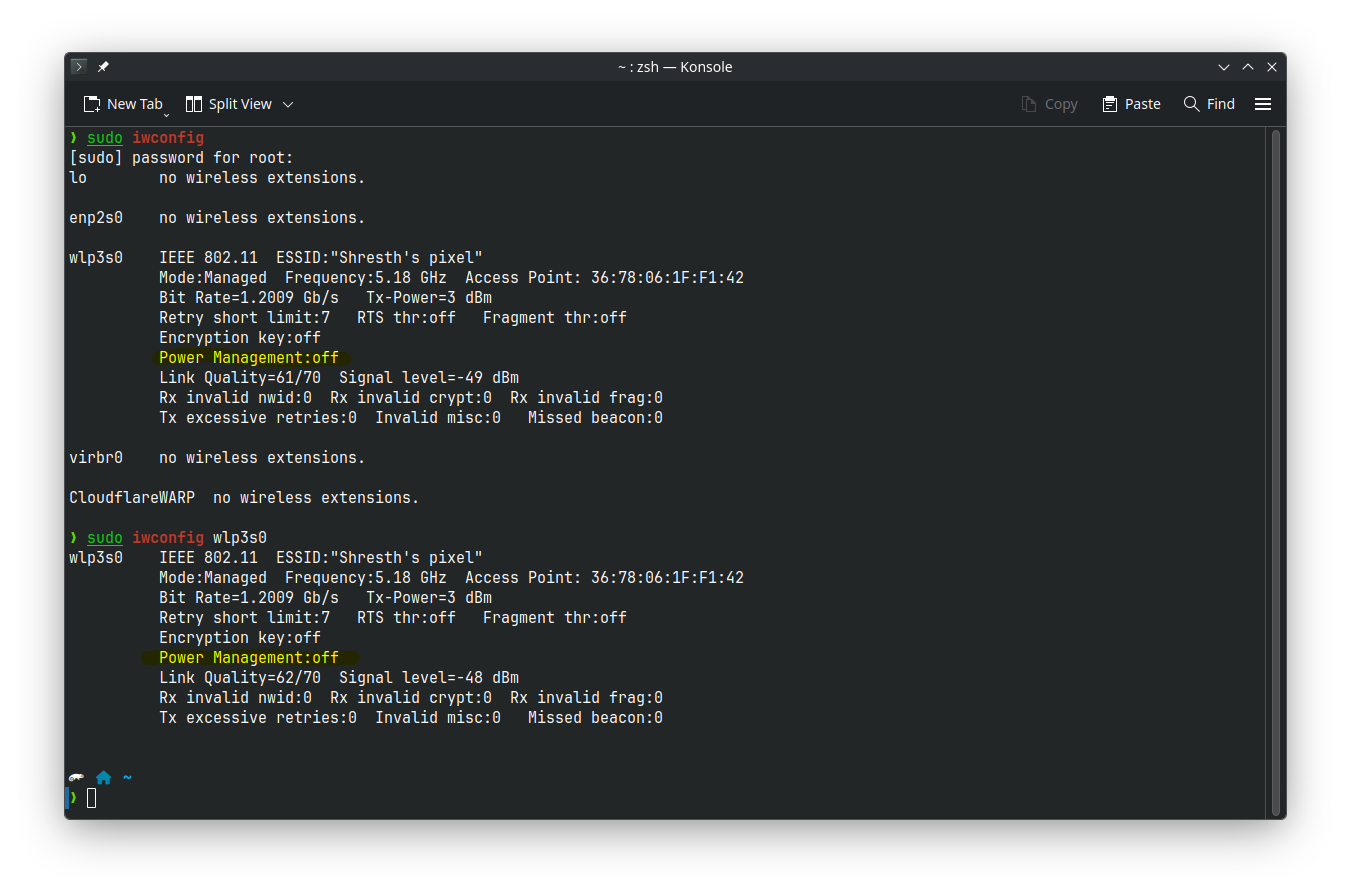
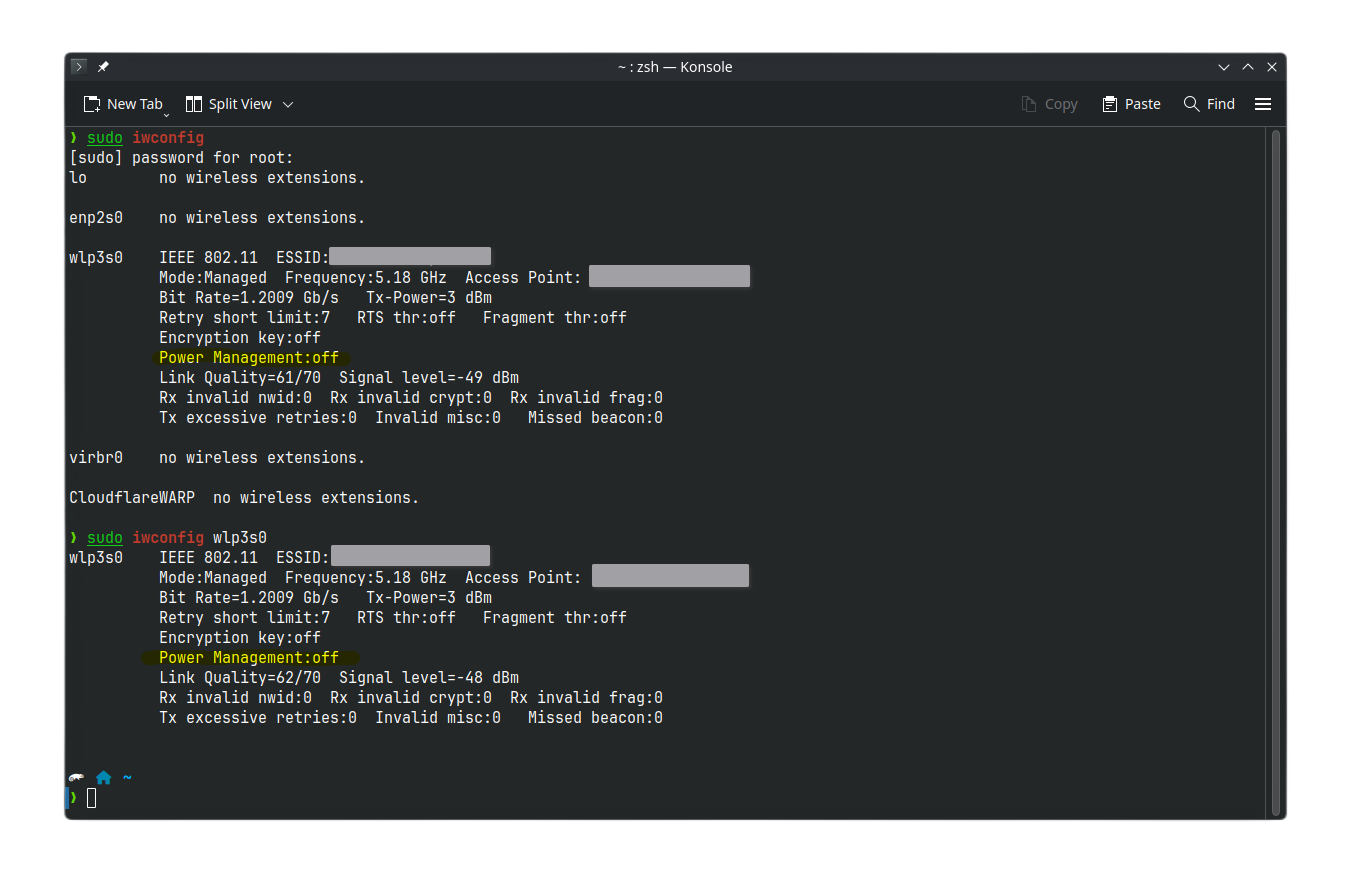
Updated README.md to add support for trivy integration

diff --git a/public/posts/linux-network-gaming-fix/index.html b/public/posts/linux-network-gaming-fix/index.html
@@ -924,8 +924,8 @@ To apply the changes immediately without rebooting your PC, restart the NetworkM
           alt="terminal"
           width="1351"
           height="896"
-          src="/posts/linux-network-gaming-fix/4_hu_945538f556cf6d34.png"
-          srcset="/posts/linux-network-gaming-fix/4_hu_945538f556cf6d34.png 800w,/posts/linux-network-gaming-fix/4_hu_1ff97bcba2c4749f.png 1280w"
+          src="/posts/linux-network-gaming-fix/4_hu_1d6beee115a77a0.png"
+          srcset="/posts/linux-network-gaming-fix/4_hu_1d6beee115a77a0.png 800w,/posts/linux-network-gaming-fix/4_hu_668d6a0a3cd24629.png 1280w"
           sizes="(min-width: 768px) 50vw, 65vw"
           data-zoom-src="/posts/linux-network-gaming-fix/4.png"
         />

diff --git a/README.md b/README.md
@@ -1,12 +1,12 @@
 # The Libre Life | Dual-Target GitOps Deployment Pipeline 🚀
-
 [![CI/CD Pipeline](https://github.com/shresth-kumar-lal/thelibrelife-site/actions/workflows/deploy.yml/badge.svg)](https://github.com/shresth-kumar-lal/thelibrelife-site/actions)
 [![Hugo Version](https://img.shields.io/badge/Hugo-v0.160.1_Extended-blue.svg)](https://gohugo.io/)
 [![Docker Base](https://img.shields.io/badge/Docker-Nginx_Alpine-blue.svg)](https://hub.docker.com/_/nginx)
+[![DevSecOps](https://img.shields.io/badge/Trivy-Vulnerability_Scanner-red.svg)](https://aquasecurity.github.io/trivy/)
 [![AWS ECR](https://img.shields.io/badge/AWS-Elastic_Container_Registry-FF9900.svg)](https://aws.amazon.com/ecr/)
 [![Live Site](https://img.shields.io/badge/Live-thelibrelife.org-success.svg)](https://thelibrelife.org)
 
-This repository houses the source code and fully automated continuous delivery pipeline for **[The Libre Life](https://thelibrelife.org)**. It serves as a proof-of-concept for enterprise-grade GitOps, demonstrating how to engineer a single GitHub Actions workflow that simultaneously deploys a highly-optimized static application to a global CDN, while securely packaging and pushing a production-ready Docker container to a private AWS cloud registry.
+This repository houses the source code and fully automated continuous delivery pipeline for **[The Libre Life](https://thelibrelife.org)**. It serves as a proof-of-concept for enterprise-grade GitOps and DevSecOps, demonstrating a single GitHub Actions workflow that simultaneously deploys a highly-optimized static application to a global CDN, while securely packaging, scanning, and pushing a production-ready Docker container to a private AWS cloud registry.
 
 ## Architecture & Pipeline Flow
 
@@ -19,7 +19,7 @@ flowchart TD
         Repo --> Trigger{Push to main}
         
         Trigger --> Job1[Job 1: Build & Deploy to Pages]
-        Trigger --> Job2[Job 2: Build & Push Docker Image]
+        Trigger --> Job2[Job 2: Build, Scan & Push Docker Image]
 
         subgraph PagesPipeline ["Target 1: Static Hosting"]
             Job1 --> InstallHugo[Install Hugo v0.160.1 & Dart Sass]
@@ -27,10 +27,12 @@ flowchart TD
             Compile --> Upload[Upload Pages Artifact]
         end
 
-        subgraph DockerPipeline ["Target 2: Enterprise Artifact"]
+        subgraph DockerPipeline ["Target 2: Enterprise Artifact (DevSecOps)"]
             Job2 --> Auth[Authenticate AWS IAM]
             Auth --> BuildImg[Build Multi-stage Nginx Container]
-            BuildImg --> TagImg[Tag Image with Git SHA]
+            BuildImg --> Trivy{Trivy Vulnerability Scan}
+            Trivy -->|Fail| Halt[Block Push: CRITICAL/HIGH CVEs found]
+            Trivy -->|Pass| TagImg[Tag Image with Git SHA]
         end
     end
 
@@ -54,23 +56,28 @@ flowchart TD
     style CI_CD fill:#f0f6ff,stroke:#0366d6,stroke-width:2px,color:#000
     style Production fill:#f9f9f9,stroke:#333,stroke-width:1px,color:#000
     style AWSRegistry fill:#f9f9f9,stroke:#333,stroke-width:1px,color:#000
+    style Trivy fill:#ffe6e6,stroke:#cc0000,stroke-width:2px,color:#000
+    style Halt fill:#ffcccc,stroke:#cc0000,stroke-width:2px,color:#000
+
 ```
 
 The deployment lifecycle is 100% automated using a parallel-job GitHub Actions pipeline. No manual server intervention is required.
 
 1. **Version Control:** Developer pushes markdown content or configuration changes to the `main` branch.
 2. **Parallel CI/CD Jobs:** GitHub Actions spins up ephemeral `ubuntu-latest` runners to execute two targets concurrently:
-   - **Target 1 (Production Hosting):** Injects the Dart Sass compiler, builds the static assets, and deploys directly to GitHub Pages CDN natively bound to the `thelibrelife.org` apex domain.
-   - **Target 2 (Enterprise Artifact):** Authenticates with AWS IAM via secure secrets, executes a multi-stage Docker build, and pushes an immutable, Nginx-backed container to a private Amazon Elastic Container Registry (ECR) in the `eu-north-1` (Stockholm) region.
-3. **DNS Routing:** Porkbun DNS dynamically routes `A` and `CNAME` requests to GitHub's global Anycast IP network, enforcing strict SSL/HTTPS.
+* **Target 1 (Production Hosting):** Injects the Dart Sass compiler, builds the static assets, and deploys directly to GitHub Pages CDN natively bound to the `thelibrelife.org` apex domain.
+* **Target 2 (Enterprise Artifact & SecOps):** Authenticates with AWS IAM via secure secrets, executes a multi-stage Docker build, and runs an automated **Trivy vulnerability scan**. If the image passes the security gate (no HIGH/CRITICAL CVEs), the immutable, Nginx-backed container is pushed to a private Amazon Elastic Container Registry (ECR) in the `eu-north-1` (Stockholm) region.
 
+
+3. **DNS Routing:** Porkbun DNS dynamically routes `A` and `CNAME` requests to GitHub's global Anycast IP network, enforcing strict SSL/HTTPS.
 
 ## Technology Stack
 
 * **Static Site Generator:** Hugo Extended (v0.160.1)
 * **Theme & UI:** Blowfish (Installed as a Git Submodule)
 * **Containerization:** Docker (Multi-stage builds, minimal Nginx Alpine image)
-* **CI/CD:** GitHub Actions (Dual-Target Matrix)
+* **CI/CD & GitOps:** GitHub Actions (Dual-Target Matrix)
+* **DevSecOps:** Aqua Security Trivy (Automated container vulnerability scanning)
 * **Cloud Infrastructure:** AWS IAM, Amazon ECR
 * **Networking:** Porkbun DNS, GitHub Pages Global CDN
 
@@ -78,6 +85,7 @@ The deployment lifecycle is 100% automated using a parallel-job GitHub Actions p
 
 Building an automated pipeline exposes the fragile nature of open-source dependency matrices. During the architectural design of this CI/CD pipeline, several complex challenges were identified and resolved:
 
+* **Shifting Security Left (DevSecOps):** Injecting security at the end of a deployment cycle is an anti-pattern. **Solution:** Integrated Aqua Security's Trivy scanner directly into the GitHub Actions runner. The pipeline is explicitly configured to fail and block pushes to AWS ECR if any `CRITICAL` or `HIGH` vulnerabilities are detected in the OS or library layers.
 * **The `:latest` Tag Trap & Upstream Registry Changes:** Initial Docker builds failed because the `:latest` tag pulled bleeding-edge Hugo binaries that fractured the theme's native `Locale` compiler. When attempting to pin the version, the upstream registry maintainers altered their tagging taxonomy. **Solution:** Conducted registry reconnaissance and refactored the `Dockerfile` to explicitly pin `hugomods/hugo:debian-reg-dart-sass-node-0.160.1`, guaranteeing deterministic, immutable builds.
 * **Pipeline Synchronization:** Discovered a drift where the Docker pipeline and GitHub Pages pipeline were compiling with mismatched Hugo binaries, causing simultaneous failures and successes. **Solution:** Bound both workflow jobs to a unified `HUGO_VERSION` environment variable, ensuring absolute parity between the containerized artifact and the live CDN deployment.
 * **Deprecation Resolution in CI Logs:** The strict compiler flagged legacy top-level TOML parameters. **Solution:** Refactored the data structure to securely nest `locale` and `label` configurations inside the `[params]` block.
@@ -85,7 +93,7 @@ Building an automated pipeline exposes the fragile nature of open-source depende
 
 ## Run the Container Locally
 
-Want to see the AWS-bound containerized application running on your own machine? You don't need AWS access to test the build. 
+Want to see the AWS-bound containerized application running on your own machine? You don't need AWS access to test the build.
 
 Ensure you have [Docker](https://www.docker.com/) and Git installed, then run these commands:
 
@@ -101,3 +109,5 @@ docker build -t thelibrelife-local .
 
 # 4. Run the secure Nginx container on port 8080
 docker run -p 8080:80 thelibrelife-local
+
+```

diff --git a/content/posts/Double password fix on encrypted install/index.md b/content/posts/Double password fix on encrypted install/index.md
@@ -1,0 +1,151 @@
+---
+title: "Beyond the Double Password: Auto-Unlocking LUKS with TPM2"
+description: "Full disk encryption is essential, but typing your password twice is just bad design. Here is how to bind LUKS to your TPM2 chip for a seamless, secure boot."
+date: 2026-04-29
+type: "post"
+tags: ["Linux", "Security", "openSUSE", "Encryption", "TPM"]
+---
+
+We have all been there. You just finished a pristine, fresh installation of your favorite Linux distribution. You did the responsible thing: you checked the box for Full Disk Encryption (FDE). Your data is locked down, your laptop is secure, and you feel like an absolute cypherpunk. 
+
+Then, you reboot. 
+
+First, GRUB asks for your 20-character passphrase to unlock the bootloader. You type it in. You wait a few seconds as the kernel loads. Then, the system halts and asks for the *exact same 20-character passphrase* to mount your root partition before starting your desktop environment. 
+
+It is maddening. It is redundant. And the good news? You do not have to live with it. 
+
+By leveraging the hardware already inside your laptop—specifically the TPM2 (Trusted Platform Module) chip—we can securely automate that second password prompt. As long as your hardware hasn't been tampered with, your laptop will boot smoothly straight to your login screen.
+
+Here is the complete, jargon-free guide to taking back your boot sequence.
+
+---
+
+## The Magic Trick: `systemd-cryptenroll`
+
+Before we start typing commands, let's briefly demystify what we are actually doing. 
+
+Your encrypted drive (which uses a standard called LUKS) has multiple "slots" for keys. Right now, slot 0 holds the password you memorized. We are going to use a brilliant tool called `systemd-cryptenroll` to generate a new, highly complex hardware key, store it securely inside your laptop's TPM chip, and put that key into slot 1. 
+
+We will specifically bind this key to **PCR 7**. In plain English, PCR 7 is the part of your motherboard that constantly watches your Secure Boot state. If an attacker steals your laptop, boots from a malicious live USB, or alters your BIOS, the TPM detects the change, panics, and refuses to hand over the key. Your drive stays locked. 
+
+If nothing has been tampered with? The TPM quietly hands the key to the kernel, and you boot in seconds. It is the perfect balance of convenience and paranoia.
+
+---
+
+## Phase 1: The Prerequisites
+
+Before we touch the terminal, let's make sure your hardware is ready for this. Open up your terminal.
+
+**1. Verify you have a TPM 2.0 chip:**
+```bash
+systemd-cryptenroll --tpm2-device=list
+```
+*If your system returns a device path (usually `/dev/tpmrm0`), you are golden. Almost all modern ThinkPads and laptops have this.*
+
+**2. Verify you are using LUKS2:**
+```bash
+sudo blkid | grep crypto_LUKS
+```
+*This guide relies on modern LUKS2 architecture. If you are on an older LUKS1 setup, this specific systemd method will not work.*
+
+**3. Ensure Secure Boot is Enabled:**
+*You can check this by running `mokutil --sb-state`. If it is disabled, you will need to turn it on in your motherboard's UEFI/BIOS settings.*
+
+---
+
+## Phase 2: Identifying Your Drive
+
+We need to tell the system exactly which encrypted drive to target. We don't want to guess here. 
+
+Run the block device list command:
+```bash
+lsblk
+```
+
+Look at the output tree. You are searching for the main partition that holds your `crypt` or `luks` volume. 
+* On Fedora or Ubuntu, this is usually something like `/dev/nvme0n1p3`.
+* On openSUSE Tumbleweed, your root Btrfs partition is usually the LUKS container itself (often `/dev/nvme0n1p2`).
+
+Identify that specific `/dev/` path. You will need it for the next step.
+
+---
+
+## Phase 3: Enrolling the TPM
+
+This is where the magic happens. We are going to ask systemd to generate the hardware key and bind it to PCR 7 (the Secure Boot watcher). 
+
+Run the following command, making sure to replace `/dev/nvme0n1pX` with the drive path you found in Phase 2:
+
+```bash
+sudo systemd-cryptenroll --tpm2-device=auto --tpm2-pcrs=7 /dev/nvme0n1pX
+```
+
+The terminal will ask you to enter your current LUKS passphrase. This is simply to prove you own the drive before it adds the new hardware key. Type it in and hit enter. 
+
+---
+
+## Phase 4: Updating the Boot Configuration
+
+Your TPM now has the key, but your boot sequence doesn't know it's allowed to ask for it. We need to update your cryptography table.
+
+Open `/etc/crypttab` in your favorite terminal editor:
+```bash
+sudo nano /etc/crypttab
+```
+
+You will see a line representing your encrypted drive. It usually looks like this:
+`cr_root  UUID=12345678-abcd...  none  x-initrd.attach`
+
+Move your cursor to the very end of that line, add a comma, and append `tpm2-device=auto`. It must look exactly like this:
+
+```text
+cr_root  UUID=12345678-abcd...  none  x-initrd.attach,tpm2-device=auto
+```
+
+Save the file and exit (`Ctrl+O`, `Enter`, `Ctrl+X`).
+
+---
+
+## Phase 5: Rebuilding the Initramfs
+
+We have changed the fundamental rules of how the system boots. Now, we just need to recompile the initial ramdisk so the kernel is aware of the new rules on its very next startup. 
+
+The command you use depends entirely on which Linux distribution you are daily-driving:
+
+**For openSUSE, Fedora, and RHEL (Using dracut):**
+```bash
+sudo dracut -f
+```
+
+**For Arch Linux (Using mkinitcpio):**
+*Ensure `systemd` is included in the `HOOKS` array inside your `/etc/mkinitcpio.conf` file, then run:*
+```bash
+sudo mkinitcpio -P
+```
+
+**For Debian, Ubuntu, and Pop!_OS:**
+```bash
+sudo update-initramfs -u
+```
+
+Once the process finishes, type `reboot` and cross your fingers. 
+
+---
+
+## The Reality Check (and the openSUSE Caveat)
+
+If you are on Fedora, Arch, or Ubuntu with a standard unencrypted `/boot` partition, congratulations! Your laptop should have just booted completely silently, dropping you right at the login screen. You successfully bypassed the decryption prompt entirely.
+
+**If you are an openSUSE user, read this carefully:**
+openSUSE does something incredibly secure, but slightly annoying by default: it encrypts the `/boot` partition as part of the root drive. 
+
+Because GRUB (the bootloader) runs *before* the Linux kernel, GRUB has absolutely no idea how to talk to a TPM chip. Therefore, GRUB will **still ask you for your password once** just to load the kernel. 
+
+However, once you type it into GRUB, the kernel takes over, realizes the TPM has the keys, and silently unlocks the rest of the system without asking you a second time. While it isn't a completely passwordless boot, you have successfully eliminated the redundant second prompt, cutting your login friction in half without sacrificing the intense security of an encrypted bootloader.
+
+### What happens if I update my BIOS?
+If you flash a new BIOS update or reset your Secure Boot keys, PCR 7 will change. The TPM will notice this change, assume you are being hacked, and lock down. 
+
+Do not panic. You haven't lost your data. 
+
+The system will simply fall back to the old method and ask you to type in your manual password. Once you boot to your desktop, open your terminal and run the exact same `systemd-cryptenroll` command from Phase 3, but add `--wipe-slot=tpm2` to it. This will erase the old TPM key and generate a fresh one mapped to your new BIOS state.
